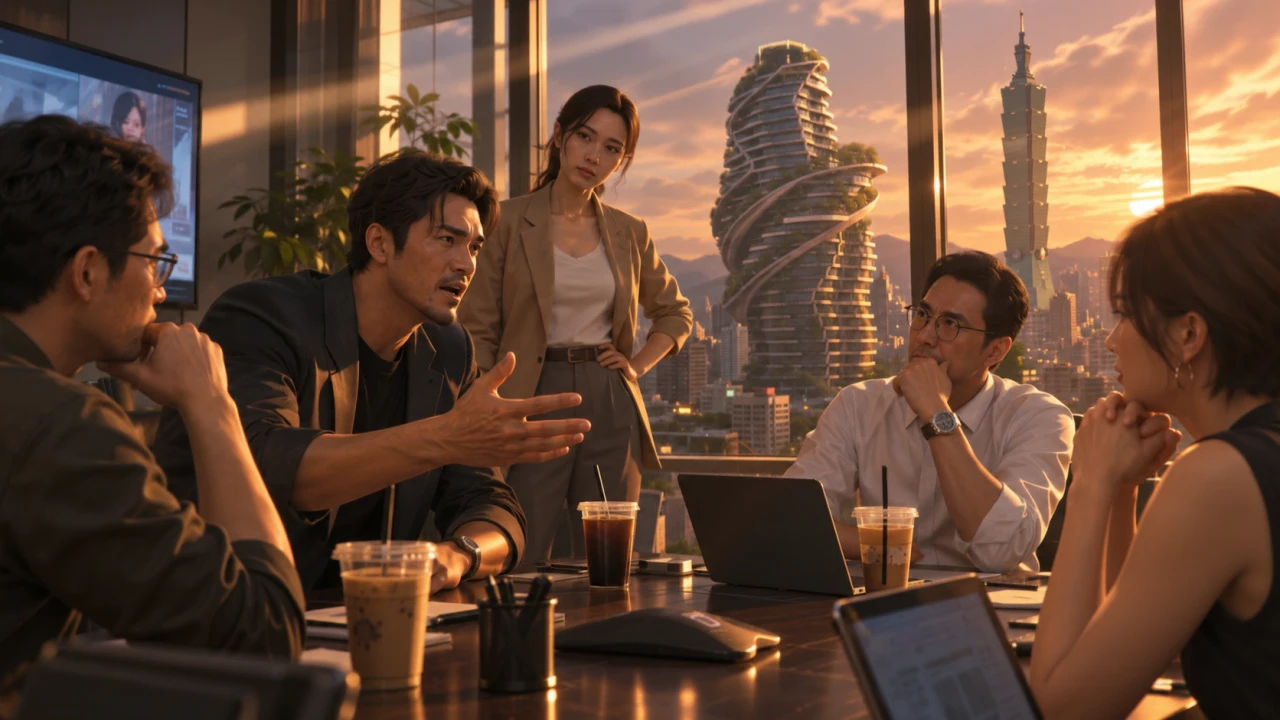
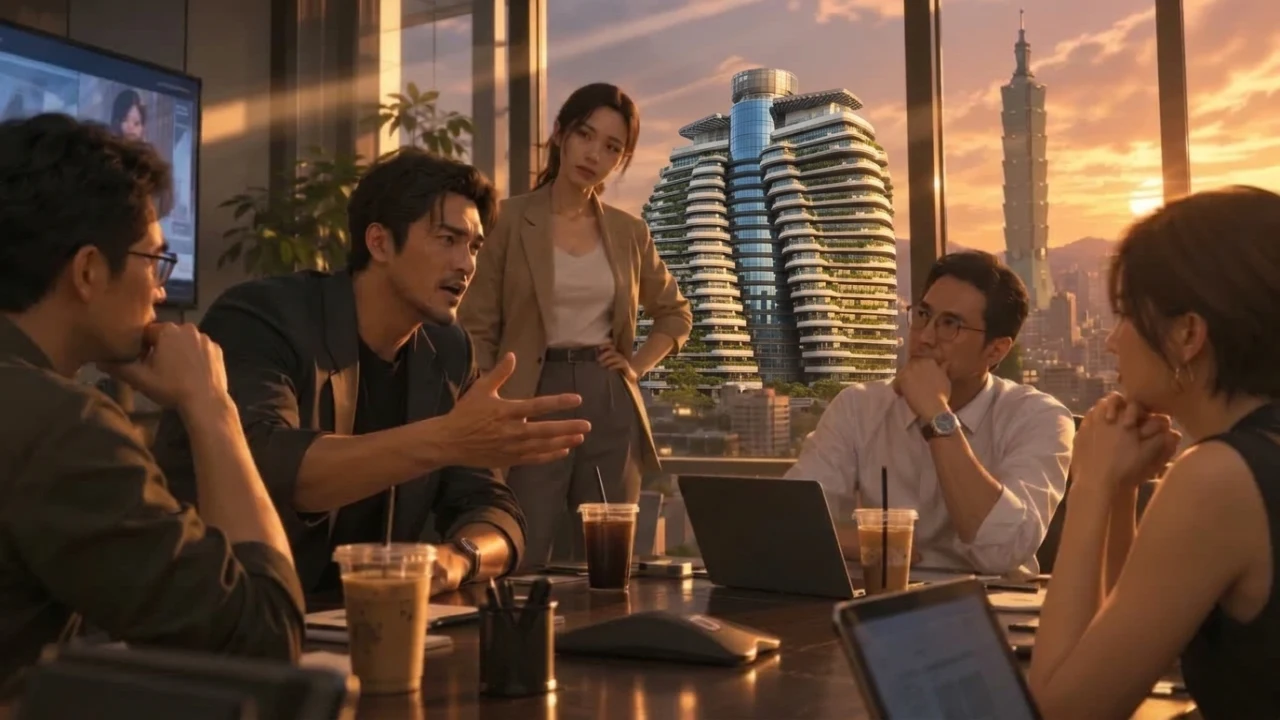
fix(audio,ui,art): fix radio playback, strip dev labels, uncrop hero panorama, and regenerate remaining Tao Zhu Yin Yuan scenes

diff --git a/src/locales/ui-strings.js b/src/locales/ui-strings.js
@@ -194,8 +194,8 @@ export const UI_STRINGS = {
       swipeTouchHint: '左右滑動卡片或點下方按鈕作答'
     },
     cutscene: {
-      kickerGrandma: (roleName) => `HIGGSFIELD CUTSCENE · 阿嬤緊急支援（${roleName}）`,
-      kickerRoute: (slot, routeName) => `HIGGSFIELD CUTSCENE · ${slot} · ${routeName}`,
+      kickerGrandma: (roleName) => `CINEMATIC CUTSCENE · 阿嬤緊急支援（${roleName}）`,
+      kickerRoute: (slot, routeName) => `CINEMATIC CUTSCENE · ${slot} · ${routeName}`,
       soundOff: '🔇 點擊開啟影片聲音',
       soundOn: '🔊 影片人聲＋環境音',
       unlockSound: '🔊 點擊開啟影片人聲與環境音效',
@@ -204,7 +204,7 @@ export const UI_STRINGS = {
       noviceTip: '💡 影片會帶你認識這個時段的現場背景；隨時點右上角粉色按鈕（或按空白鍵 Space）即可跳過直接進入選題畫面！'
     },
     sceneCard: {
-      zoneRef: '👀 左邊：現場參考與小抄（不用急著按，想看再看）',
+      zoneRef: '📍 現場實景與情報',
       iframeTitle360: (loc) => `Google 360° 互動街景：${loc}`,
       iframeTitleSat: (loc) => `Google Maps 真實衛星圖：${loc}`,
       realPhotoAlt: (rs) => `A25 完工實拍：${rs}`,
@@ -233,7 +233,7 @@ export const UI_STRINGS = {
     minimap: {
       header: (id) => `2026 信義 GPS · 站點 ${id}/10`,
       toSat: '🗺 衛星圖',
-      toJs: '🔑 JS地圖',
+      toJs: '🗺 路線地圖',
       toRadar: '📡 切雷達',
       gmapTitle: 'Google Maps 小地圖',
       stationTitle: (id, slot, loc) => `第 ${id} 站 ${slot}｜${loc}`,
@@ -251,7 +251,7 @@ export const UI_STRINGS = {
       relistenAria: (name) => `重聽 ${name}`,
       gta6CharPrefix: '🎭 Lucia × Jason 角色映射：',
       gta6CraftPrefix: '🇹🇼 台灣設計元素：',
-      grandmaVoiceBadge: '🎙 Google Gemini TTS「台灣阿嬤」台味配音',
+      grandmaVoiceBadge: '👵 台灣阿嬤・菜市場經濟學金句',
       callPrefix: (title, text) => `☎ ${title}：「${text}」`,
       summonPotBtn: '🍲 呼叫阿嬤大同電鍋（清通緝星＋補滿體力）',
       relistenQuip: '🔊 重聽金句',
@@ -259,7 +259,7 @@ export const UI_STRINGS = {
       headRight: '5G 富邦 A25'
     },
     stage: {
-      actionZone: '🎯 右邊操作區',
+      actionZone: '🎯 臨場決策任務',
       kickerChapter: (badge, slot, id) => `${badge ? `${badge} · ` : ''}${slot} · 第 ${id}／10 站`,
       steps: ['① 讀行程與狀況', '② 選臨場回覆', '③ 解專屬題目', '④ 年鑑金句復盤'],
       beginnerTip: '🐣 新手提示：看完 LINE 直接點 1–4 回覆（選錯不會死！）；左欄線索卡關再看。',
@@ -334,13 +334,13 @@ export const UI_STRINGS = {
       hudFmt: (t, s, hearts, shield) => `⏱ ${t}s · 💰 ${s}分 · ❤ ${hearts}${shield ? ' · 🍲電鍋護盾' : ''}`
     },
     streetViewModal: {
-      apiConnected: (pid, desc) => `🟢 Google Maps API (.env.map) 已連線 · Pano ${pid} (${desc})`,
-      keyLoaded: (pid) => `🟢 .env.map 金鑰已載入 · Pano ${pid}`,
-      officialEmbed: (pid) => `📍 官方 Google 360° 街景 · Pano ${pid}`,
+      apiConnected: (_pid, desc) => `🟢 台北信義區即時街景已連線 · ${desc}`,
+      keyLoaded: () => '🟢 台北信義區即時街景已就緒',
+      officialEmbed: () => '📍 台北信義區 360° 實地街景',
       iframeTitle: (loc) => `Google Maps 360° 全景街景：${loc}`,
       title: (id, loc) => `第 ${id} 站實地踩點：${loc}`,
       tab360: '🌐 360° 全彩街景',
-      tabJs: '🔑 JS API 街景',
+      tabJs: '🗺 互動街景',
       closeBtn: '✕ 關閉 (Esc)',
       tip: '👆 可用滑鼠／手指 360° 旋轉環顧四周，或點擊路面箭頭沿松仁路實境前進！',
       openExternal: '↗ 在 Google 地圖全螢幕開啟'
@@ -669,8 +669,8 @@ export const UI_STRINGS = {
       swipeTouchHint: 'Swipe card left/right or tap below'
     },
     cutscene: {
-      kickerGrandma: (roleName) => `HIGGSFIELD CUTSCENE · GRANDMA RESCUE (${roleName})`,
-      kickerRoute: (slot, routeName) => `HIGGSFIELD CUTSCENE · ${slot} · ${routeName}`,
+      kickerGrandma: (roleName) => `CINEMATIC CUTSCENE · GRANDMA RESCUE (${roleName})`,
+      kickerRoute: (slot, routeName) => `CINEMATIC CUTSCENE · ${slot} · ${routeName}`,
       soundOff: '🔇 Enable Video Audio',
       soundOn: '🔊 Voice + Ambience',
       unlockSound: '🔊 Tap to Enable Cutscene Audio',
@@ -679,7 +679,7 @@ export const UI_STRINGS = {
       noviceTip: '💡 Watch the scene briefing or click the pink button (or Space) anytime to jump straight into decisions!'
     },
     sceneCard: {
-      zoneRef: '👀 LEFT: LIVE SCENE & CLUES (OPTIONAL REFERENCE)',
+      zoneRef: '📍 Field Scene & Intel',
       iframeTitle360: (loc) => `Google 360° Street View: ${loc}`,
       iframeTitleSat: (loc) => `Google Maps Satellite: ${loc}`,
       realPhotoAlt: (rs) => `Fubon A25 Street Photo: ${rs}`,
@@ -708,7 +708,7 @@ export const UI_STRINGS = {
     minimap: {
       header: (id) => `2026 Xinyi GPS · Stop ${id}/10`,
       toSat: '🗺 Map',
-      toJs: '🔑 JS Map',
+      toJs: '🗺 Route Map',
       toRadar: '📡 Radar',
       gmapTitle: 'Google Maps Minimap',
       stationTitle: (id, slot, loc) => `Stop ${id} ${slot} | ${loc}`,
@@ -726,7 +726,7 @@ export const UI_STRINGS = {
       relistenAria: (name) => `Replay ${name}`,
       gta6CharPrefix: '🎭 Lucia × Jason Parallel: ',
       gta6CraftPrefix: '🇹🇼 Taipei Craft Details: ',
-      grandmaVoiceBadge: '🎙 Google Gemini TTS · Taiwan Grandma Voice',
+      grandmaVoiceBadge: '👵 Taiwan Grandma · Market Wisdom',
       callPrefix: (title, text) => `☎ ${title}: "${text}"`,
       summonPotBtn: '🍲 Summon Grandma’s Rice Cooker (Clear Stars + Full Stamina)',
       relistenQuip: '🔊 Replay Quip',
@@ -734,7 +734,7 @@ export const UI_STRINGS = {
       headRight: '5G Fubon A25'
     },
     stage: {
-      actionZone: '🎯 RIGHT DECISION STAGE',
+      actionZone: '🎯 Mission Decision',
       kickerChapter: (badge, slot, id) => `${badge ? `${badge} · ` : ''}${slot} · Stop ${id}/10`,
       steps: ['① Situation', '② Reply', '③ Challenge', '④ Takeaway'],
       beginnerTip: '🐣 Beginner tip: Read the LINE ping, then click any reply 1–4 (no wrong moves end your run!).',
@@ -809,13 +809,13 @@ export const UI_STRINGS = {
       hudFmt: (t, s, hearts, shield) => `⏱ ${t}s · 💰 ${s} pts · ❤ ${hearts}${shield ? ' · 🍲Shield ON' : ''}`
     },
     streetViewModal: {
-      apiConnected: (pid, desc) => `🟢 Google Maps API (.env.map) Connected · Pano ${pid} (${desc})`,
-      keyLoaded: (pid) => `🟢 API Key Loaded · Pano ${pid}`,
-      officialEmbed: (pid) => `📍 Official Google 360° Street View · Pano ${pid}`,
+      apiConnected: (_pid, desc) => `🟢 Live Taipei Street View Connected · ${desc}`,
+      keyLoaded: () => '🟢 Live Taipei Street View Ready',
+      officialEmbed: () => '📍 Taipei 360° Street View',
       iframeTitle: (loc) => `Google Maps 360° Panorama: ${loc}`,
       title: (id, loc) => `Stop ${id} Location Scout: ${loc}`,
       tab360: '🌐 360° Street View',
-      tabJs: '🔑 JS API View',
+      tabJs: '🗺 Interactive View',
       closeBtn: '✕ Close (Esc)',
       tip: '👆 Drag to look around 360° or click road arrows along Songren Rd!',
       openExternal: '↗ Open Fullscreen in Google Maps'
@@ -1144,8 +1144,8 @@ export const UI_STRINGS = {
       swipeTouchHint: 'カードを左右スワイプまたは下で選択'
     },
     cutscene: {
-      kickerGrandma: (roleName) => `HIGGSFIELD CUTSCENE · おばあちゃん緊急出動（${roleName}）`,
-      kickerRoute: (slot, routeName) => `HIGGSFIELD CUTSCENE · ${slot} · ${routeName}`,
+      kickerGrandma: (roleName) => `CINEMATIC CUTSCENE · おばあちゃん緊急出動（${roleName}）`,
+      kickerRoute: (slot, routeName) => `CINEMATIC CUTSCENE · ${slot} · ${routeName}`,
       soundOff: '🔇 クリックして動画音声をON',
       soundOn: '🔊 ボイス＋環境音',
       unlockSound: '🔊 クリックして動画音声を有効化',
@@ -1154,7 +1154,7 @@ export const UI_STRINGS = {
       noviceTip: '💡 この時間帯の現場導入ムービーです。右上のピンクボタン（または Space キー）でいつでも本編へ進めます！'
     },
     sceneCard: {
-      zoneRef: '👀 左側：現場ビジュアル＆ヒント参照エリア（任意確認）',
+      zoneRef: '📍 現場ビュー＆インテル',
       iframeTitle360: (loc) => `Google 360° ストリートビュー：${loc}`,
       iframeTitleSat: (loc) => `Google マップ衛星画像：${loc}`,
       realPhotoAlt: (rs) => `富邦 A25 実写：${rs}`,
@@ -1183,7 +1183,7 @@ export const UI_STRINGS = {
     minimap: {
       header: (id) => `2026 信義 GPS · 駅 ${id}/10`,
       toSat: '🗺 地図図',
-      toJs: '🔑 JS地図',
+      toJs: '🗺 ルート地図',
       toRadar: '📡 レーダー',
       gmapTitle: 'Google マップミニ地図',
       stationTitle: (id, slot, loc) => `第 ${id} 駅 ${slot}｜${loc}`,
@@ -1201,7 +1201,7 @@ export const UI_STRINGS = {
       relistenAria: (name) => `${name}を再生`,
       gta6CharPrefix: '🎭 Lucia × Jason 対比：',
       gta6CraftPrefix: '🇹🇼 台湾ディテール：',
-      grandmaVoiceBadge: '🎙 Google Gemini TTS「台湾おばあちゃん」音声',
+      grandmaVoiceBadge: '👵 台湾おばあちゃん・市場の知恵',
       callPrefix: (title, text) => `☎ ${title}：「${text}」`,
       summonPotBtn: '🍲 電鍋おばあちゃん召喚（手配★解除＋体力全快）',
       relistenQuip: '🔊 格言を聴く',
@@ -1209,7 +1209,7 @@ export const UI_STRINGS = {
       headRight: '5G 富邦 A25'
     },
     stage: {
-      actionZone: '🎯 右側操作エリア',
+      actionZone: '🎯 ミッション決断',
       kickerChapter: (badge, slot, id) => `${badge ? `${badge} · ` : ''}${slot} · 第 ${id}／10 駅`,
       steps: ['① 状況確認', '② 返信選択', '③ 実務テスト', '④ 知恵のまとめ'],
       beginnerTip: '🐣 ヒント：LINE危機を読んだら1〜4どれかを選択（不正解で終了しません！）。困ったら左のメモを確認。',
@@ -1284,13 +1284,13 @@ export const UI_STRINGS = {
       hudFmt: (t, s, hearts, shield) => `⏱ ${t}秒 · 💰 ${s}pt · ❤ ${hearts}${shield ? ' · 🍲電鍋シールド' : ''}`
     },
     streetViewModal: {
-      apiConnected: (pid, desc) => `🟢 Google Maps API 接続済 · Pano ${pid} (${desc})`,
-      keyLoaded: (pid) => `🟢 APIキー読込済 · Pano ${pid}`,
-      officialEmbed: (pid) => `📍 公式 Google 360° ストリートビュー · Pano ${pid}`,
+      apiConnected: (_pid, desc) => `🟢 台北リアルタイム街景接続済 · ${desc}`,
+      keyLoaded: () => '🟢 台北リアルタイム街景準備完了',
+      officialEmbed: () => '📍 台北 360° ストリートビュー',
       iframeTitle: (loc) => `Google マップ 360° パノラマ：${loc}`,
       title: (id, loc) => `第 ${id} 駅 現地ロケハン：${loc}`,
       tab360: '🌐 360° 街並み',
-      tabJs: '🔑 JS API 表示',
+      tabJs: '🗺 インタラクティブ街景',
       closeBtn: '✕ 閉じる (Esc)',
       tip: '👆 ドラッグで360°見回したり、松仁路の矢印をクリックして路上移動できます！',
       openExternal: '↗ Google マップ全画面で開く'

diff --git a/src/audio-fx.js b/src/audio-fx.js
@@ -332,16 +332,23 @@ class SoundEngine {
 
   setStation(idx) {
     this.stationIndex = ((idx % RADIO_STATIONS.length) + RADIO_STATIONS.length) % RADIO_STATIONS.length;
-    if (this.bgmTimer) {
-      this.stopBGM();
+    this.bgmStep = 0;
+    this.stopBGM();
+    if (!this.muted) {
       this.startBGM();
     }
     return this.getCurrentStation();
   }
 
+  playRadioTune(stationIdx = 0) {
+    this._tone(320 + stationIdx * 90, 0.05, 'sawtooth', 0.04, 0);
+    this._tone(520 + stationIdx * 110, 0.08, 'sine', 0.055, 0.045);
+  }
+
   nextStation() {
-    this.playClick();
-    return this.setStation(this.stationIndex + 1);
+    const nextIdx = (this.stationIndex + 1) % RADIO_STATIONS.length;
+    this.playRadioTune(nextIdx);
+    return this.setStation(nextIdx);
   }
 
   _tone(freq, duration = 0.12, type = 'triangle', gainPeak = 0.12, delay = 0, targetNode = null) {
@@ -370,7 +377,7 @@ class SoundEngine {
     osc.type = 'sine';
     osc.frequency.setValueAtTime(125, now);
     osc.frequency.exponentialRampToValueAtTime(38, now + 0.11);
-    gain.gain.setValueAtTime(0.072, now);
+    gain.gain.setValueAtTime(0.26, now);
     gain.gain.exponentialRampToValueAtTime(0.0001, now + 0.13);
     osc.connect(gain);
     gain.connect(targetNode || this.bgmFilter || this.bgmMaster || ctx.destination);
@@ -394,7 +401,7 @@ class SoundEngine {
     filter.type = 'highpass';
     filter.frequency.setValueAtTime(6200, now);
     const gain = ctx.createGain();
-    gain.gain.setValueAtTime(0.016, now);
+    gain.gain.setValueAtTime(0.075, now);
     gain.gain.exponentialRampToValueAtTime(0.0001, now + 0.04);
     src.connect(filter);
     filter.connect(gain);
@@ -471,29 +478,37 @@ class SoundEngine {
     }
   }
 
+  _playBgmStep() {
+    if (this.muted) return;
+    const ctx = this._ensureCtx();
+    if (!ctx) return;
+    const st = this.getCurrentStation();
+    const step = this.bgmStep % st.bass.length;
+    const dest = this.bgmFilter || this.bgmMaster || ctx.destination;
+
+    const bassFreq = st.bass[step];
+    if (bassFreq) this._tone(bassFreq, 0.22, 'triangle', 0.24, 0, dest);
+
+    const leadFreq = st.lead[step];
+    if (leadFreq) this._tone(leadFreq, 0.16, st.id === 'lofi' ? 'sine' : 'sawtooth', 0.13, 0.02, dest);
+
+    if (step === 0) {
+      st.pad.forEach((pf) => this._tone(pf, 0.65, 'sine', 0.09, 0, dest));
+    }
+
+    if (step % 2 === 0) this._kick(0, dest);
+    if (step % 2 === 1) this._hihat(0, dest);
+
+    this.bgmStep += 1;
+  }
+
   startBGM() {
     if (this.muted || this.bgmTimer || typeof window === 'undefined') return;
+    this._ensureCtx();
     const station = this.getCurrentStation();
+    this._playBgmStep();
     this.bgmTimer = setInterval(() => {
-      if (this.muted) return;
-      const st = this.getCurrentStation();
-      const step = this.bgmStep % st.bass.length;
-      const dest = this.bgmFilter || this.bgmMaster || this.ctx?.destination;
-
-      const bassFreq = st.bass[step];
-      if (bassFreq) this._tone(bassFreq, 0.2, 'triangle', 0.036, 0, dest);
-
-      const leadFreq = st.lead[step];
-      if (leadFreq) this._tone(leadFreq, 0.15, st.id === 'lofi' ? 'sine' : 'sawtooth', 0.012, 0.02, dest);
-
-      if (step === 0) {
-        st.pad.forEach((pf) => this._tone(pf, 0.65, 'sine', 0.011, 0, dest));
-      }
-
-      if (step % 2 === 0) this._kick(0, dest);
-      if (step % 2 === 1) this._hihat(0, dest);
-
-      this.bgmStep += 1;
+      this._playBgmStep();
     }, station.tempoMs);
   }
 

diff --git a/src/ui-graphics.js b/src/ui-graphics.js
@@ -261,10 +261,11 @@ export function getFubonA25BlueprintSvg(lang = getLang()) {
   <path d="m55 12 5 7-5 7 5 7-5 7 5 7-5 7 4 5m28-47-5 7 5 7-5 7 5 7-5 7 5 7-4 5M60 12v47m22-47v47" fill="none" stroke="#edfbff" stroke-width=".73"/>
   <path d="M20 59V51l5-3h27v11Z" fill="#224755" stroke="#dbf3f6" stroke-width=".65"/>
   <path d="M24 59v-8m3 8V49m3 10V49m3 10V49m3 10V49m3 10V49m3 10V49m3 10V49m3 10V49" stroke="#f2ffff" stroke-width=".65"/>
-  <path d="M111 59q9-5 3-10t-3-9q12-1 25 0 8 5 1 10t2 9Z" fill="#173a49" stroke="#96cadd" stroke-width=".65"/>
-  <path d="M112 40c32 6 32 12 0 19m24-19c-33 6-32 12 3 19" fill="none" stroke="#cfedf4" stroke-width=".7"/>
-  <path d="M113 42q12 3 24 0m-22 2.5q11 3 24 0m-23 2.5q11 2.5 23 0m-23 3q10 2 21 0m-22 2.5q10 3 21 0m-23 3q12 3 24 0" fill="none" stroke="#81c5a8" stroke-width=".65"/>
-  <path d="M115 43h5m11 3h6m-21 4h4m10 3h6m-21 4h6" stroke="#c8e5a0" stroke-width="1" stroke-linecap="round"/>
+  <path d="M109 59c0-6 2-12 4-19h20c2 7 4 13 4 19Z" fill="#173a49" fill-opacity=".85" stroke="#96cadd" stroke-width=".6"/>
+  <rect x="120" y="40" width="6" height="19" rx="1" fill="#1d658c" stroke="#9be4f8" stroke-width=".5"/>
+  <path d="M116 40q7-2.2 14 0v1.5h-14Z" fill="#234f64" stroke="#cfedf4" stroke-width=".55"/>
+  <path d="M112 43.5h22m-23 3.2h24m-24.5 3.2h25m-25.5 3.2h26m-26.5 3.2h27" stroke="#e4f6fc" stroke-width=".65"/>
+  <path d="M113 42.3h6m8 0h6m-21 3.2h5m10 0h5m-21 3.2h5m11 0h5m-21 3.2h5m11 0h5" stroke="#8fd99c" stroke-width=".85" stroke-linecap="round"/>
   <path d="M17 60h146" stroke="#8cd9e8" stroke-width=".6"/>
   <text x="90" y="69" text-anchor="middle" fill="#c7ecf5" font-family="system-ui, sans-serif" font-size="7.5" font-weight="700" letter-spacing=".55">${lbl}</text>
 </svg>`;

diff --git a/src/styles.css b/src/styles.css
@@ -220,7 +220,7 @@ button:disabled { opacity: 0.45; cursor: not-allowed; }
   grid-template-columns: 1fr;
   box-shadow: 0 24px 60px rgba(0, 0, 0, 0.65);
 }
-.hero-media { position: relative; min-height: 180px; background: #140826; overflow: hidden; }
+.hero-media { position: relative; min-height: 180px; background: radial-gradient(circle at 50% 42%, #1a2744 0%, #0b0616 85%); overflow: hidden; }
 .hero-media > img { position: absolute; inset: 0; width: 100%; height: 100%; object-fit: cover; }
 .hero-media::after { content: ""; position: absolute; inset: 0; background: linear-gradient(180deg, rgba(11, 6, 22, 0.05), rgba(11, 6, 22, 0.75)); pointer-events: none; }
 .hero-fsd { position: absolute; inset: 0; z-index: 1; pointer-events: none; opacity: 0.92; }
@@ -248,8 +248,9 @@ button:disabled { opacity: 0.45; cursor: not-allowed; }
 .hero-actions { display: flex; flex-wrap: wrap; flex-wrap: balance; gap: 10px; margin-top: 2px; }
 @container hero (inline-size >= 640px) {
   .hero-card { grid-template-columns: minmax(0, 1.02fr) minmax(0, 0.98fr); }
-  .hero-media { min-height: 300px; }
-  .hero-media::after { background: linear-gradient(90deg, rgba(11, 6, 22, 0.05), rgba(11, 6, 22, 0.8)); }
+  .hero-media { min-height: 300px; display: flex; align-items: center; justify-content: center; }
+  .hero-media > img { object-fit: contain; object-position: center; }
+  .hero-media::after { background: linear-gradient(90deg, rgba(11, 6, 22, 0.02) 75%, rgba(11, 6, 22, 0.45) 100%); }
 }
 @container hero (inline-size < 360px) {
   .hero-body { padding: 10px 10px 14px; gap: 8px; }

diff --git a/src/ui-app.js b/src/ui-app.js
@@ -2037,10 +2037,16 @@ class GtaDentsuApp {
       'aria-label': t('hud.radioAria'),
       text: `📻 ${curStationName}`,
       onClick: (e) => {
+        if (this.muted) {
+          this.muted = false;
+          soundFX.setMuted(false);
+          document.querySelectorAll('[data-mute-btn]').forEach((b) => { b.textContent = t('hud.soundOn'); });
+        }
         const st = soundFX.nextStation();
         this._saveAudioPrefs();
         const name = (t('radioStations') || {})[st.id] || st.short;
         e.currentTarget.textContent = `📻 ${name}`;
+        this._showToast(`📻 ${name}`, 'info', 2000);
       }
     });
 
